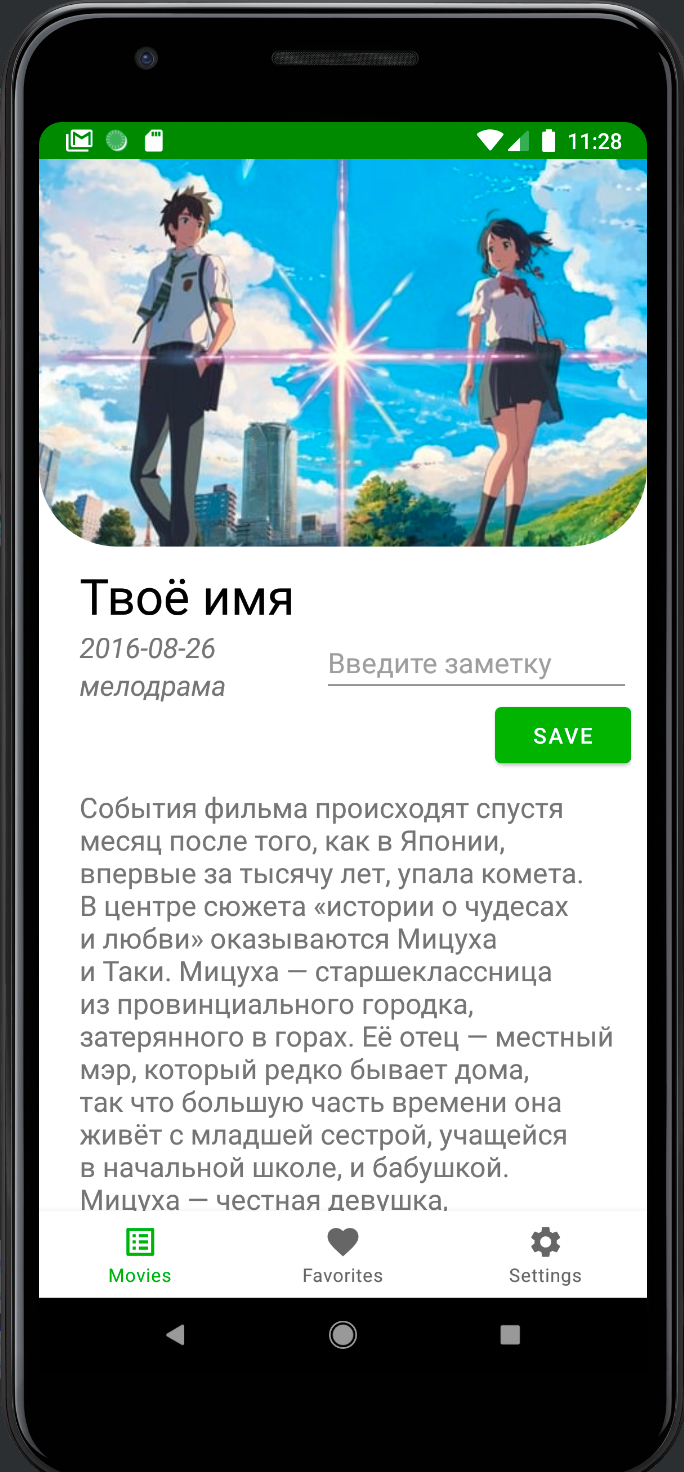
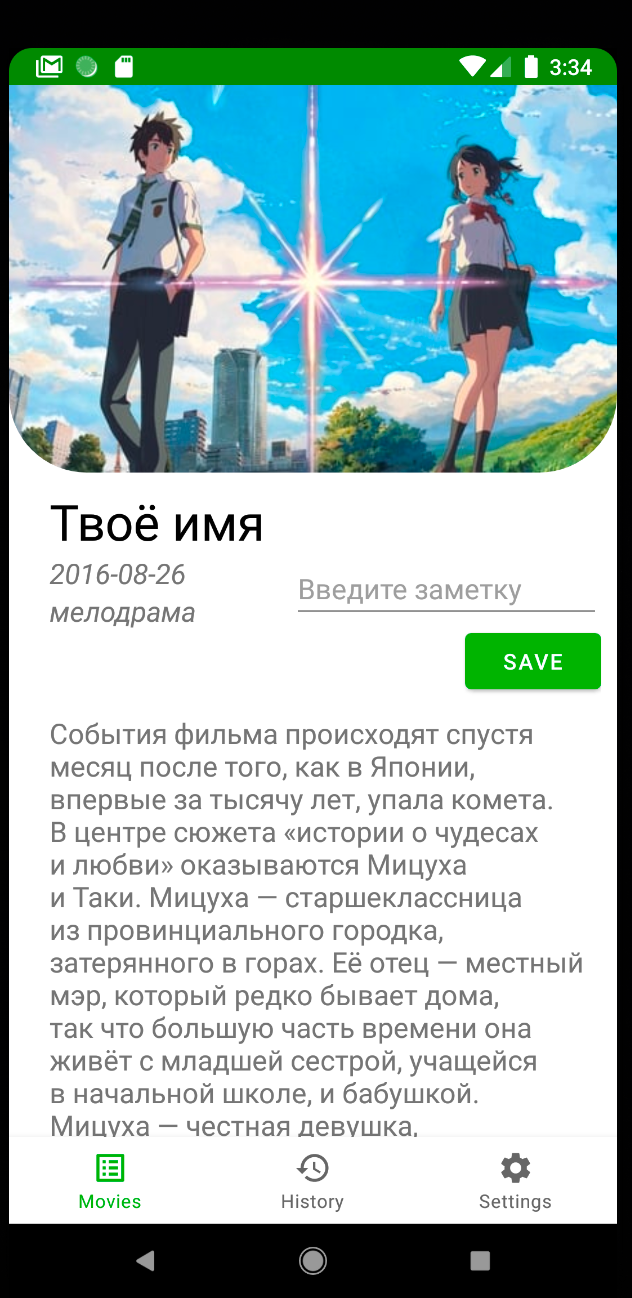
заменил фрагмент избранного на историю просмотра

diff --git a/app/src/main/java/com/example/moviesearch/view/MainActivity.kt b/app/src/main/java/com/example/moviesearch/view/MainActivity.kt
@@ -73,24 +73,15 @@ class MainActivity : AppCompatActivity() {
 
     override fun onOptionsItemSelected(item: MenuItem): Boolean {
         return when (item.itemId) {
-            R.id.menu_history -> {
-                if (supportFragmentManager.findFragmentByTag("history") == null) {
-                    supportFragmentManager.apply {
-                        beginTransaction()
-                            .add(R.id.fragment_container, HistoryFragment.newInstance(), "history")
-                            .addToBackStack("")
-                            .commitAllowingStateLoss()
-                    }
-                }
-                true
-            }
             R.id.menu_contacts -> {
                 if (supportFragmentManager.findFragmentByTag("contacts") == null) {
                     supportFragmentManager.apply {
                         beginTransaction()
-                            .add(R.id.fragment_container,
+                            .add(
+                                R.id.fragment_container,
                                 ContactsFragment.newInstance(),
-                                "contacts")
+                                "contacts"
+                            )
                             .addToBackStack("")
                             .commitAllowingStateLoss()
                     }
@@ -101,7 +92,11 @@ class MainActivity : AppCompatActivity() {
                 if (supportFragmentManager.findFragmentByTag("maps") == null) {
                     supportFragmentManager.apply {
                         beginTransaction()
-                            .add(R.id.fragment_container, MapsFragment.newInstance(), "maps")
+                            .add(
+                                R.id.fragment_container,
+                                MapsFragment.newInstance(),
+                                "maps"
+                            )
                             .addToBackStack("")
                             .commitAllowingStateLoss()
                     }

diff --git a/README.md b/README.md
@@ -19,7 +19,7 @@ Pet project для демонстрации технологий и подход
 Скриншоты:
 ----------
 
-! <img src="screenshots/list_fragment.png" width="240">
+! <img src="screenshots/ru_list.png" width="240">
 ! <img src="screenshots/detail_fragment1.png" width="240">
 ! <img src="screenshots/detail_fragment2.png" width="240">
 ! <img src="screenshots/settings.png" width="240">
